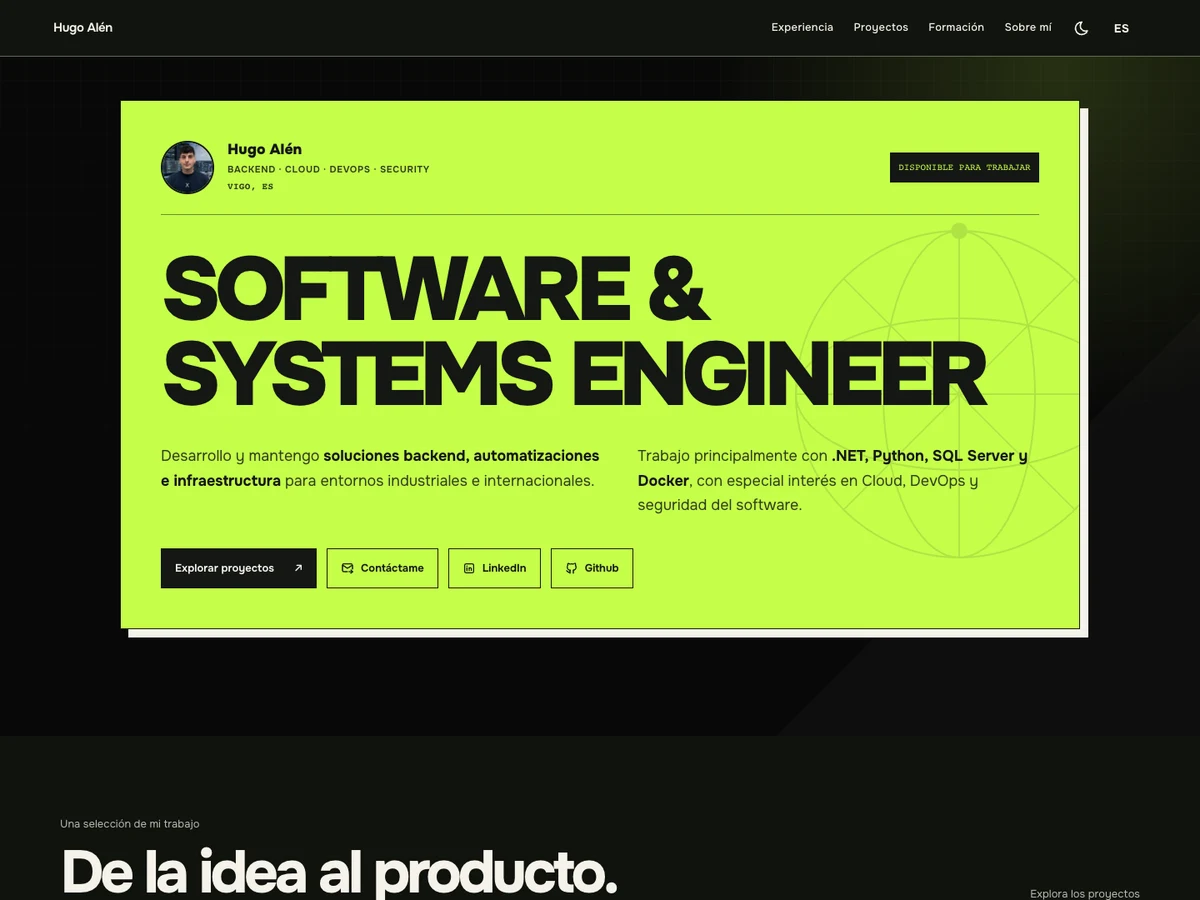
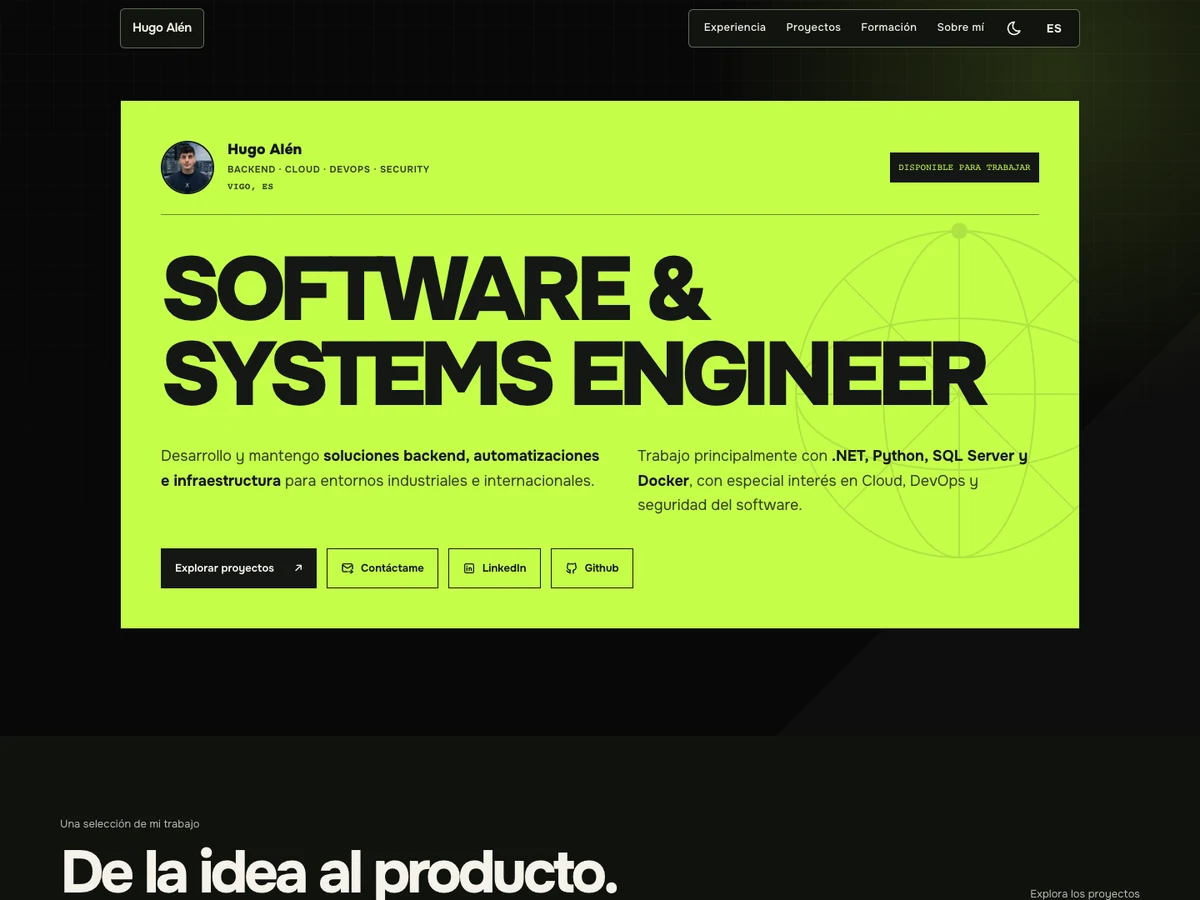
menu

Changed region(s): [[0.0925, 0.1244, 0.925, 0.7156], [0.5858, 0.0, 0.9558, 0.0622], [0.0617, 0.0, 0.185, 0.0622]]

diff --git a/src/styles/portfolio.css b/src/styles/portfolio.css
@@ -19,23 +19,27 @@ body[data-page="portfolio"] {
 body[data-page="portfolio"] .section,
 body[data-page="portfolio"] #footer-container { max-width: 78rem; padding-inline: clamp(1.25rem, 4vw, 3rem); }
 body[data-page="portfolio"] #header-container {
-  max-width: none;
+  max-width: 78rem;
   left: 0;
   right: 0;
   top: 0;
   transform: none;
   translate: none;
   margin-top: 0;
-  padding: calc(0.6rem + env(safe-area-inset-top, 0px)) max(clamp(1.25rem, 5vw, 4rem), env(safe-area-inset-right, 0px)) 0.6rem max(clamp(1.25rem, 5vw, 4rem), env(safe-area-inset-left, 0px));
+  padding: calc(0.6rem + env(safe-area-inset-top, 0px)) max(clamp(1.25rem, 4vw, 3rem), env(safe-area-inset-right, 0px)) 0.6rem max(clamp(1.25rem, 4vw, 3rem), env(safe-area-inset-left, 0px));
   align-items: center;
   justify-content: space-between;
-  background: var(--p-paper);
-  border-bottom: 1px solid var(--p-line);
+  background: transparent;
+  border: 0;
 }
 .portfolio-identity {
   display: inline-flex;
   align-items: center;
   min-height: 48px;
+  padding-inline: 0.875rem;
+  background: var(--p-paper);
+  border: 1px solid var(--p-line);
+  border-radius: 0.35rem;
   color: var(--p-ink);
   font-weight: 650;
   font-size: 0.9375rem;
@@ -49,6 +53,10 @@ body[data-page="portfolio"] #header-links {
   border: 0;
   box-shadow: none;
   text-transform: none;
+}
+body[data-page="portfolio"] #header-container > nav {
+  border: 1px solid var(--p-line);
+  border-radius: 0.35rem;
 }
 body[data-page="portfolio"] #header-container a.nav-link { font-size: 0.8125rem; font-weight: 500; }
 body[data-page="portfolio"] #header-container a.nav-link:hover,
@@ -67,7 +75,7 @@ body[data-page="portfolio"] .hero-panel {
   border: 1px solid #151714;
   background: #c5ff4a;
   color: #151714;
-  box-shadow: 10px 10px 0 var(--p-ink);
+  box-shadow: none;
 }
 body[data-page="portfolio"] .hero-panel > header { position: relative; z-index: 1; border-color: #15171480; border-width: 0 0 1px; padding-bottom: 1.5rem; margin-bottom: 2.5rem; }
 body[data-page="portfolio"] #hero-profile-image { width: 64px; height: 64px; border: 2px solid #151714; box-shadow: none; }

diff --git a/DESIGN.md b/DESIGN.md
@@ -11,7 +11,8 @@ Portfolio gráfico y animado para presentar experiencia de ingeniería y product
 - Cierre con una invitación directa a contactar.
 - Capturas de proyectos contenidas para evitar recortar las interfaces.
 - Tipografía, espaciado y colores definidos para ambos temas.
-- Navegación en una cabecera continua, con objetivos táctiles de al menos 44 px y márgenes seguros.
+- Navegación compacta sobre fondo transparente, alineada al contenido, con objetivos táctiles de al menos 44 px y márgenes seguros.
+- Hero de borde limpio, sin sombra desplazada.
 - Cabecera con el nombre real, sin monograma; desplegable móvil de enlaces grandes y apertura animada.
 - Los estilos públicos usan `body[data-page="portfolio"]`; el CMS mantiene sus controles.
 - Las tarjetas locales y las generadas por Firestore comparten los mismos selectores.
